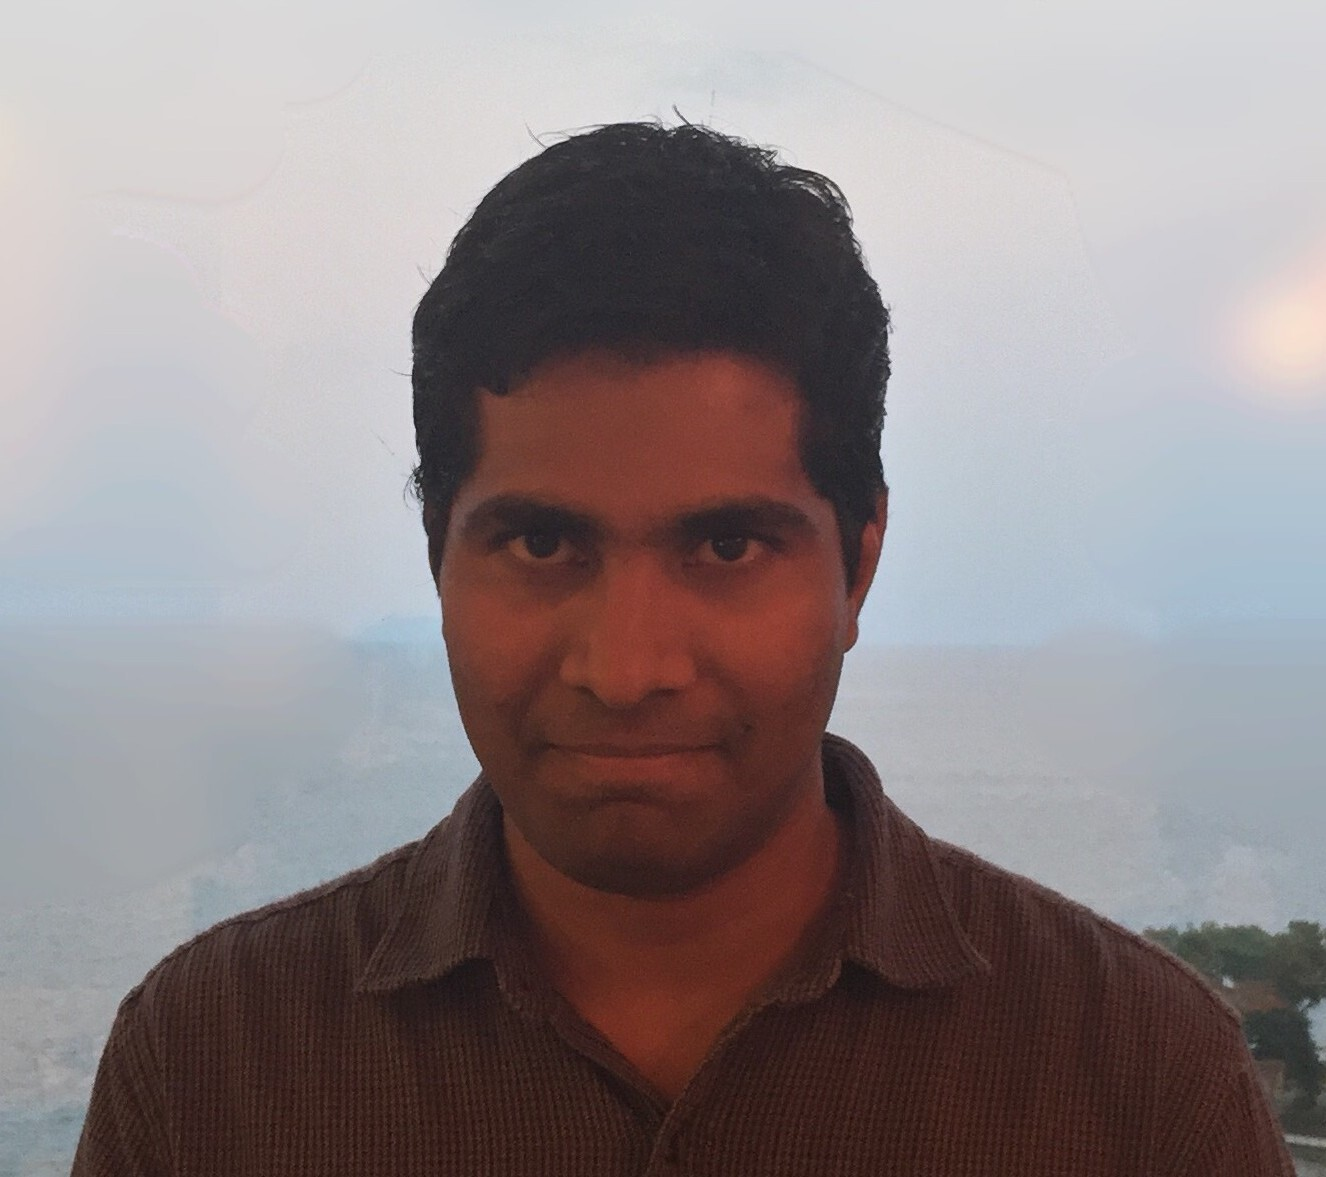
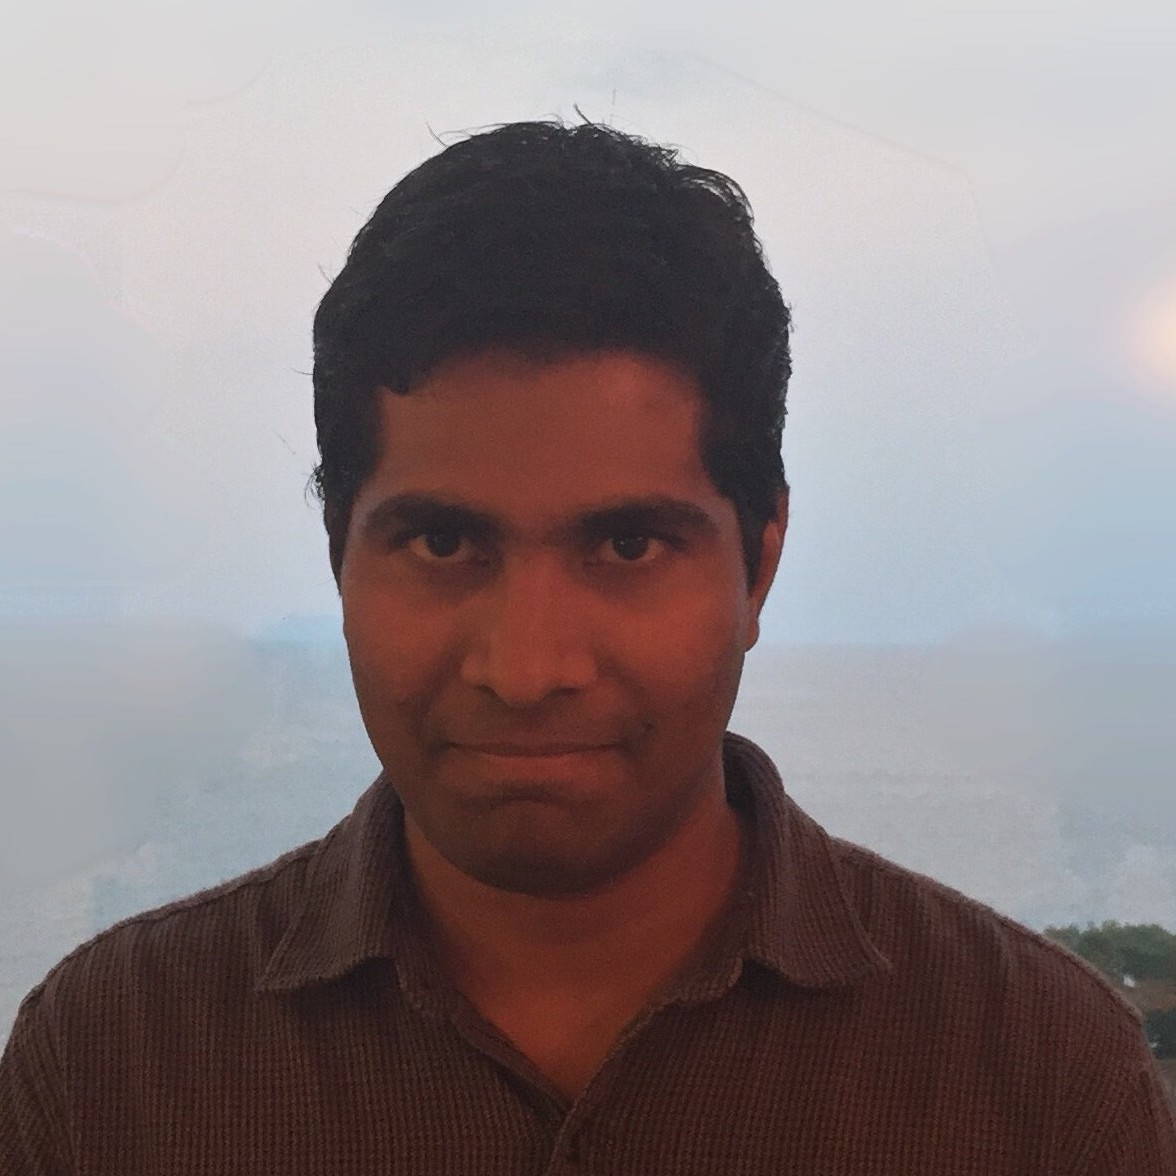
adding all the pictures of organizers for anl-2022 workshop

diff --git a/events/workshop-anl-2022-summer.md b/events/workshop-anl-2022-summer.md
@@ -56,7 +56,7 @@ subtitle: Argonne National Laboratory 2022 Workshop
 </div>
 <div class="row">
     <div class="speaker column">
-        <img class="speaker-pic" src="/assets/events/workshop-anl-2022-summer/empty-picture.webp" alt="tanwi mallick">
+        <img class="speaker-pic" src="/assets/events/workshop-anl-2022-summer/tanwi-mallick.jpg" alt="tanwi mallick">
         <p>Tanwi Mallick</p>
     </div>
     <div class="speaker column">
@@ -74,10 +74,21 @@ subtitle: Argonne National Laboratory 2022 Workshop
         <p>Anirudh Subramanyam</p>
     </div>
     <div class="speaker column">
-        <img class="speaker-pic" src="/assets/events/workshop-anl-2022-summer/empty-picture.webp" alt="akhil pandey akella">
+        <img class="speaker-pic" src="/assets/events/workshop-anl-2022-summer/akhil-pandey-akella.jpg" alt="akhil pandey akella">
         <p>Akhil Pandey Akella</p>
     </div>
-    <div class="column"></div>
+    <div class="speaker column">
+        <img class="speaker-pic" src="/assets/events/workshop-anl-2022-summer/joceran-gouneau.png" alt="joceran gouneau">
+        <p>Joceran Gouneau</p>
+    </div>
+</div>
+<div class="row">
+    <div class="speaker column">
+        <img class="speaker-pic" src="/assets/events/workshop-anl-2022-summer/sam-foreman.jpg" alt="sam foreman">
+        <p>Sam Foreman</p>
+    </div>
+    <div class="speaker column"></div>
+    <div class="speaker column"></div>
 </div>
 
 ## Program
@@ -117,7 +128,7 @@ Times are shown with respect to the Central Time zone (Chicago, USA).
 * **12:50 -- 1:20**: Hands-on (*Sandeep Madireddy and Tanwi Mallick*) [Notebook]
 * **1:20 -- 2:10**: Running DeepHyper at Scale (No handson; only demo)
     * Perlmutter/NERSC (*Nesar Soorve Ramachandra*) [Slides]
-    * ThetaGPU/ALCF (*Kyle Felker*) [Slides]
+    * ThetaGPU/ALCF (*Sam Foreman*, *Joceran Gouneau*) [Slides]
     * Summit/OLCF platforms (*Kyle Felker*) [Slides]
 
 ---
